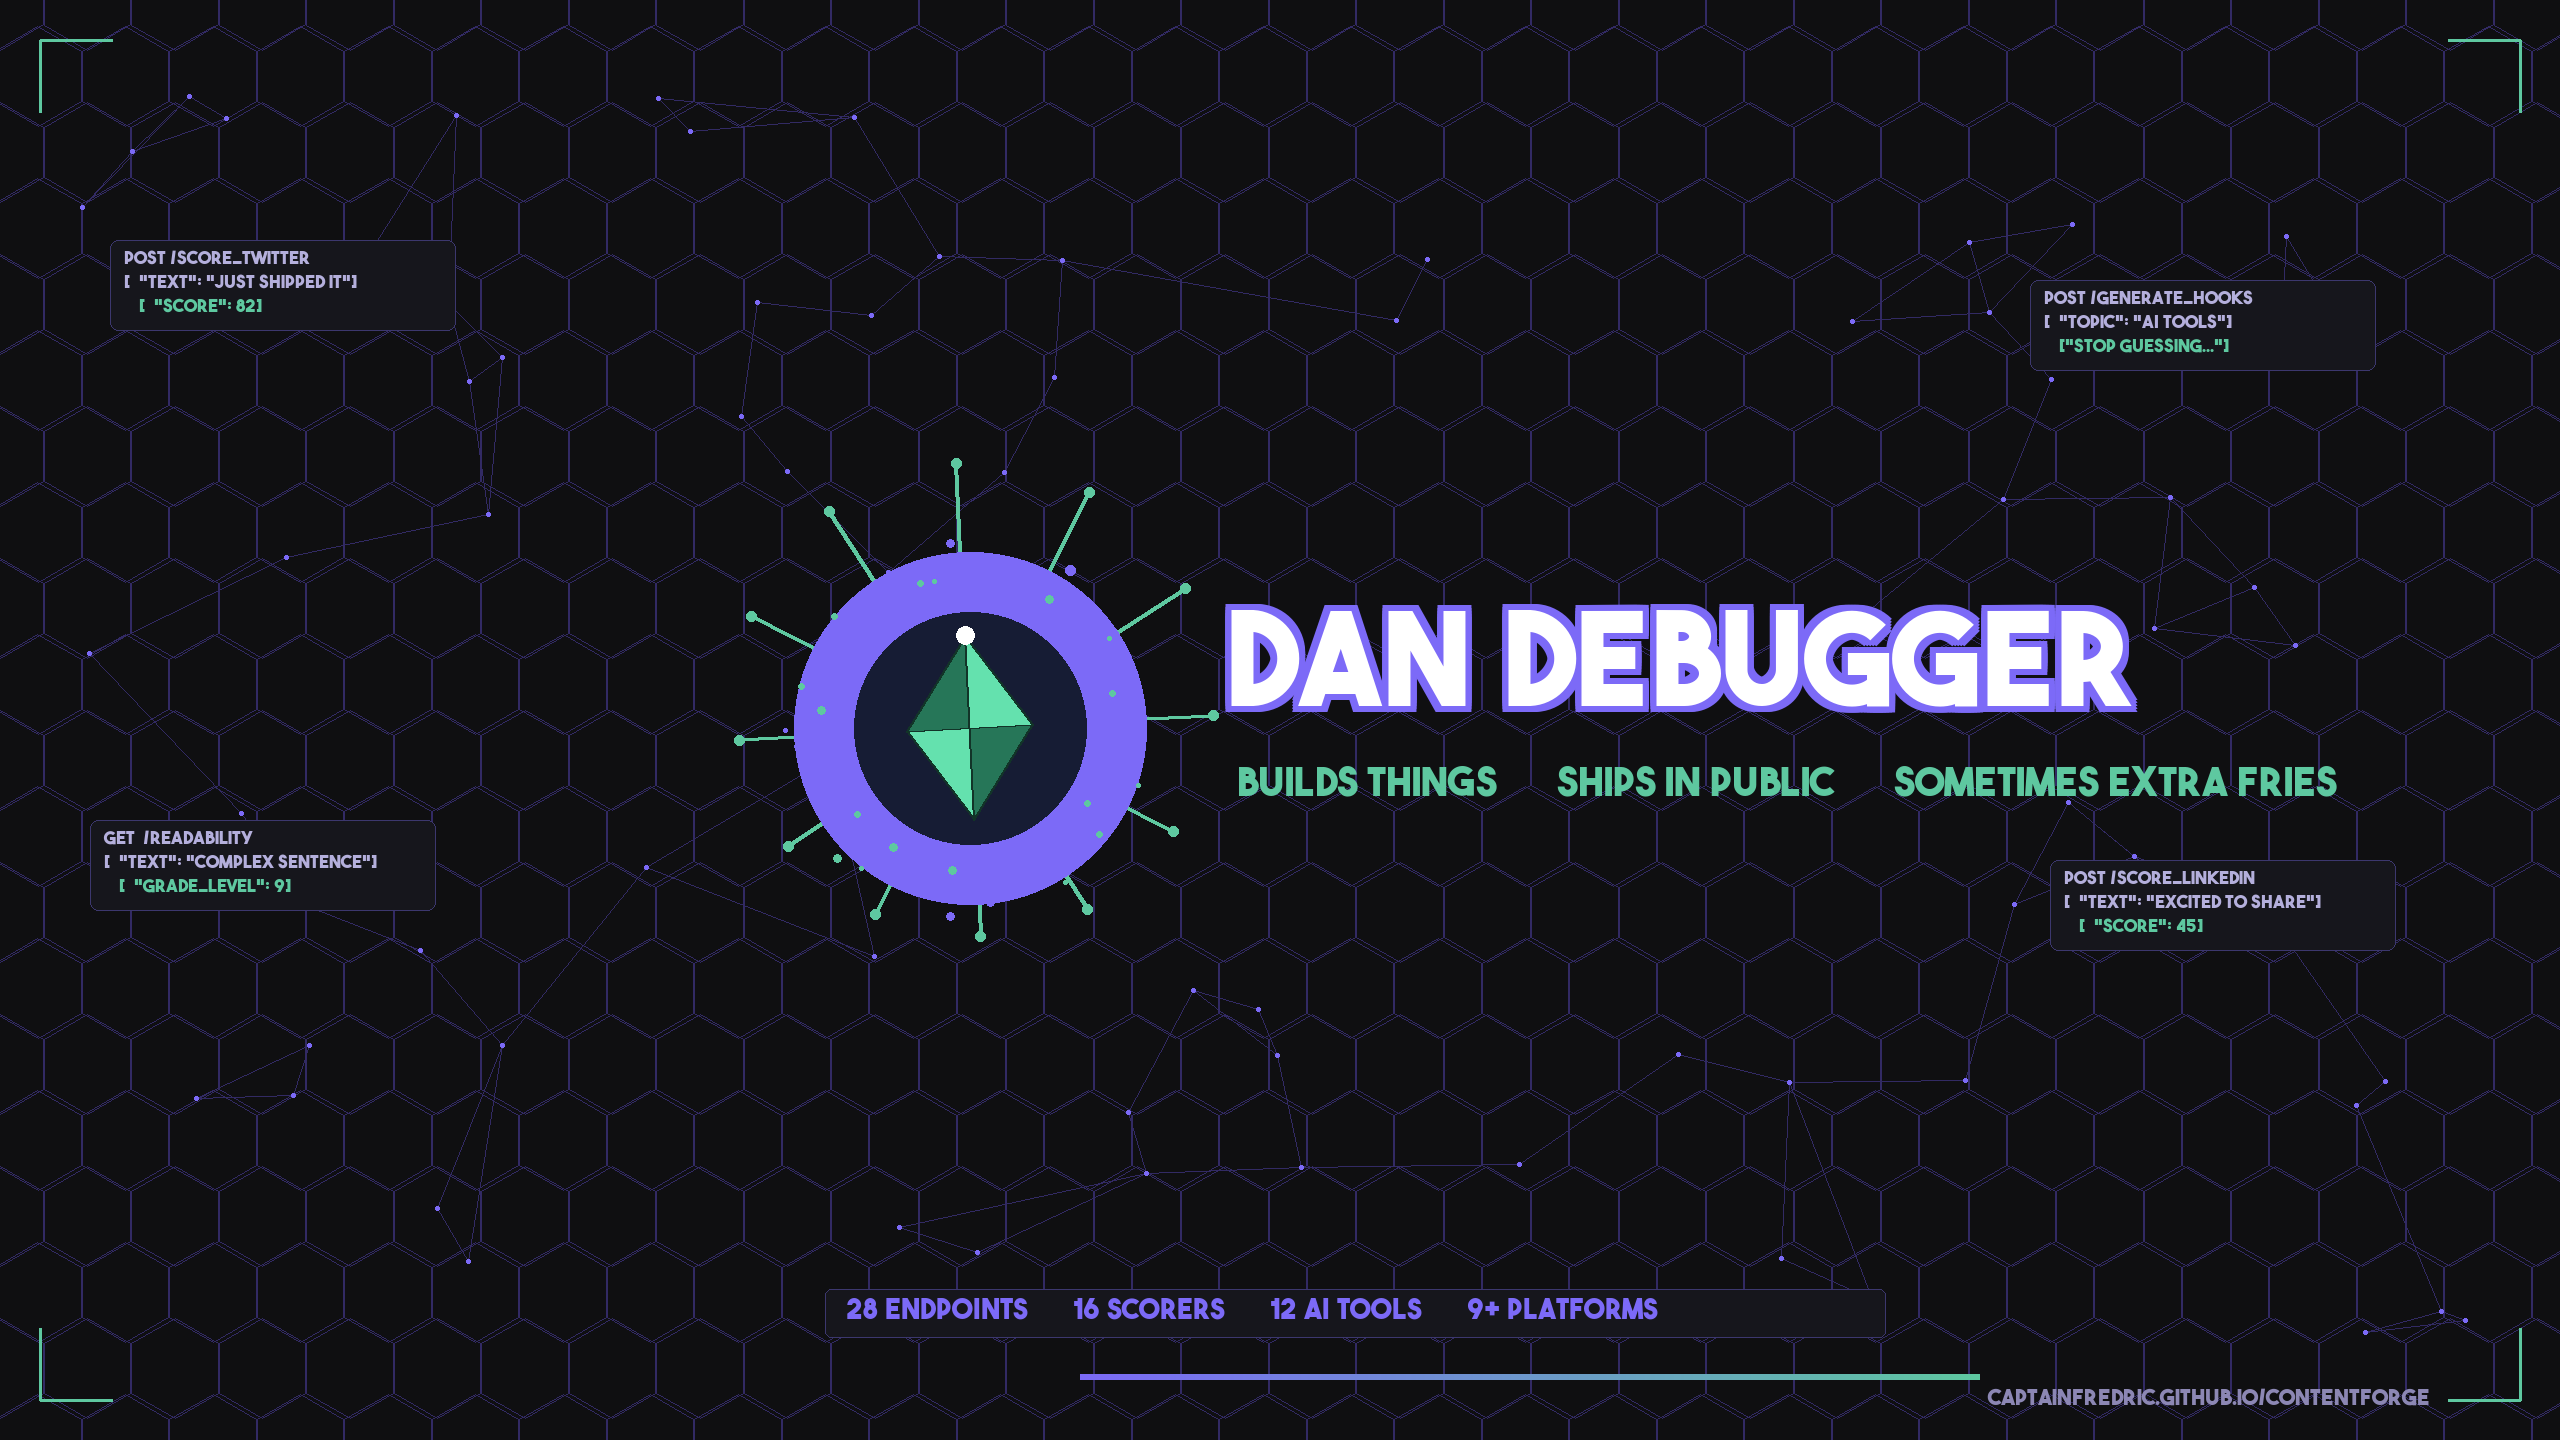
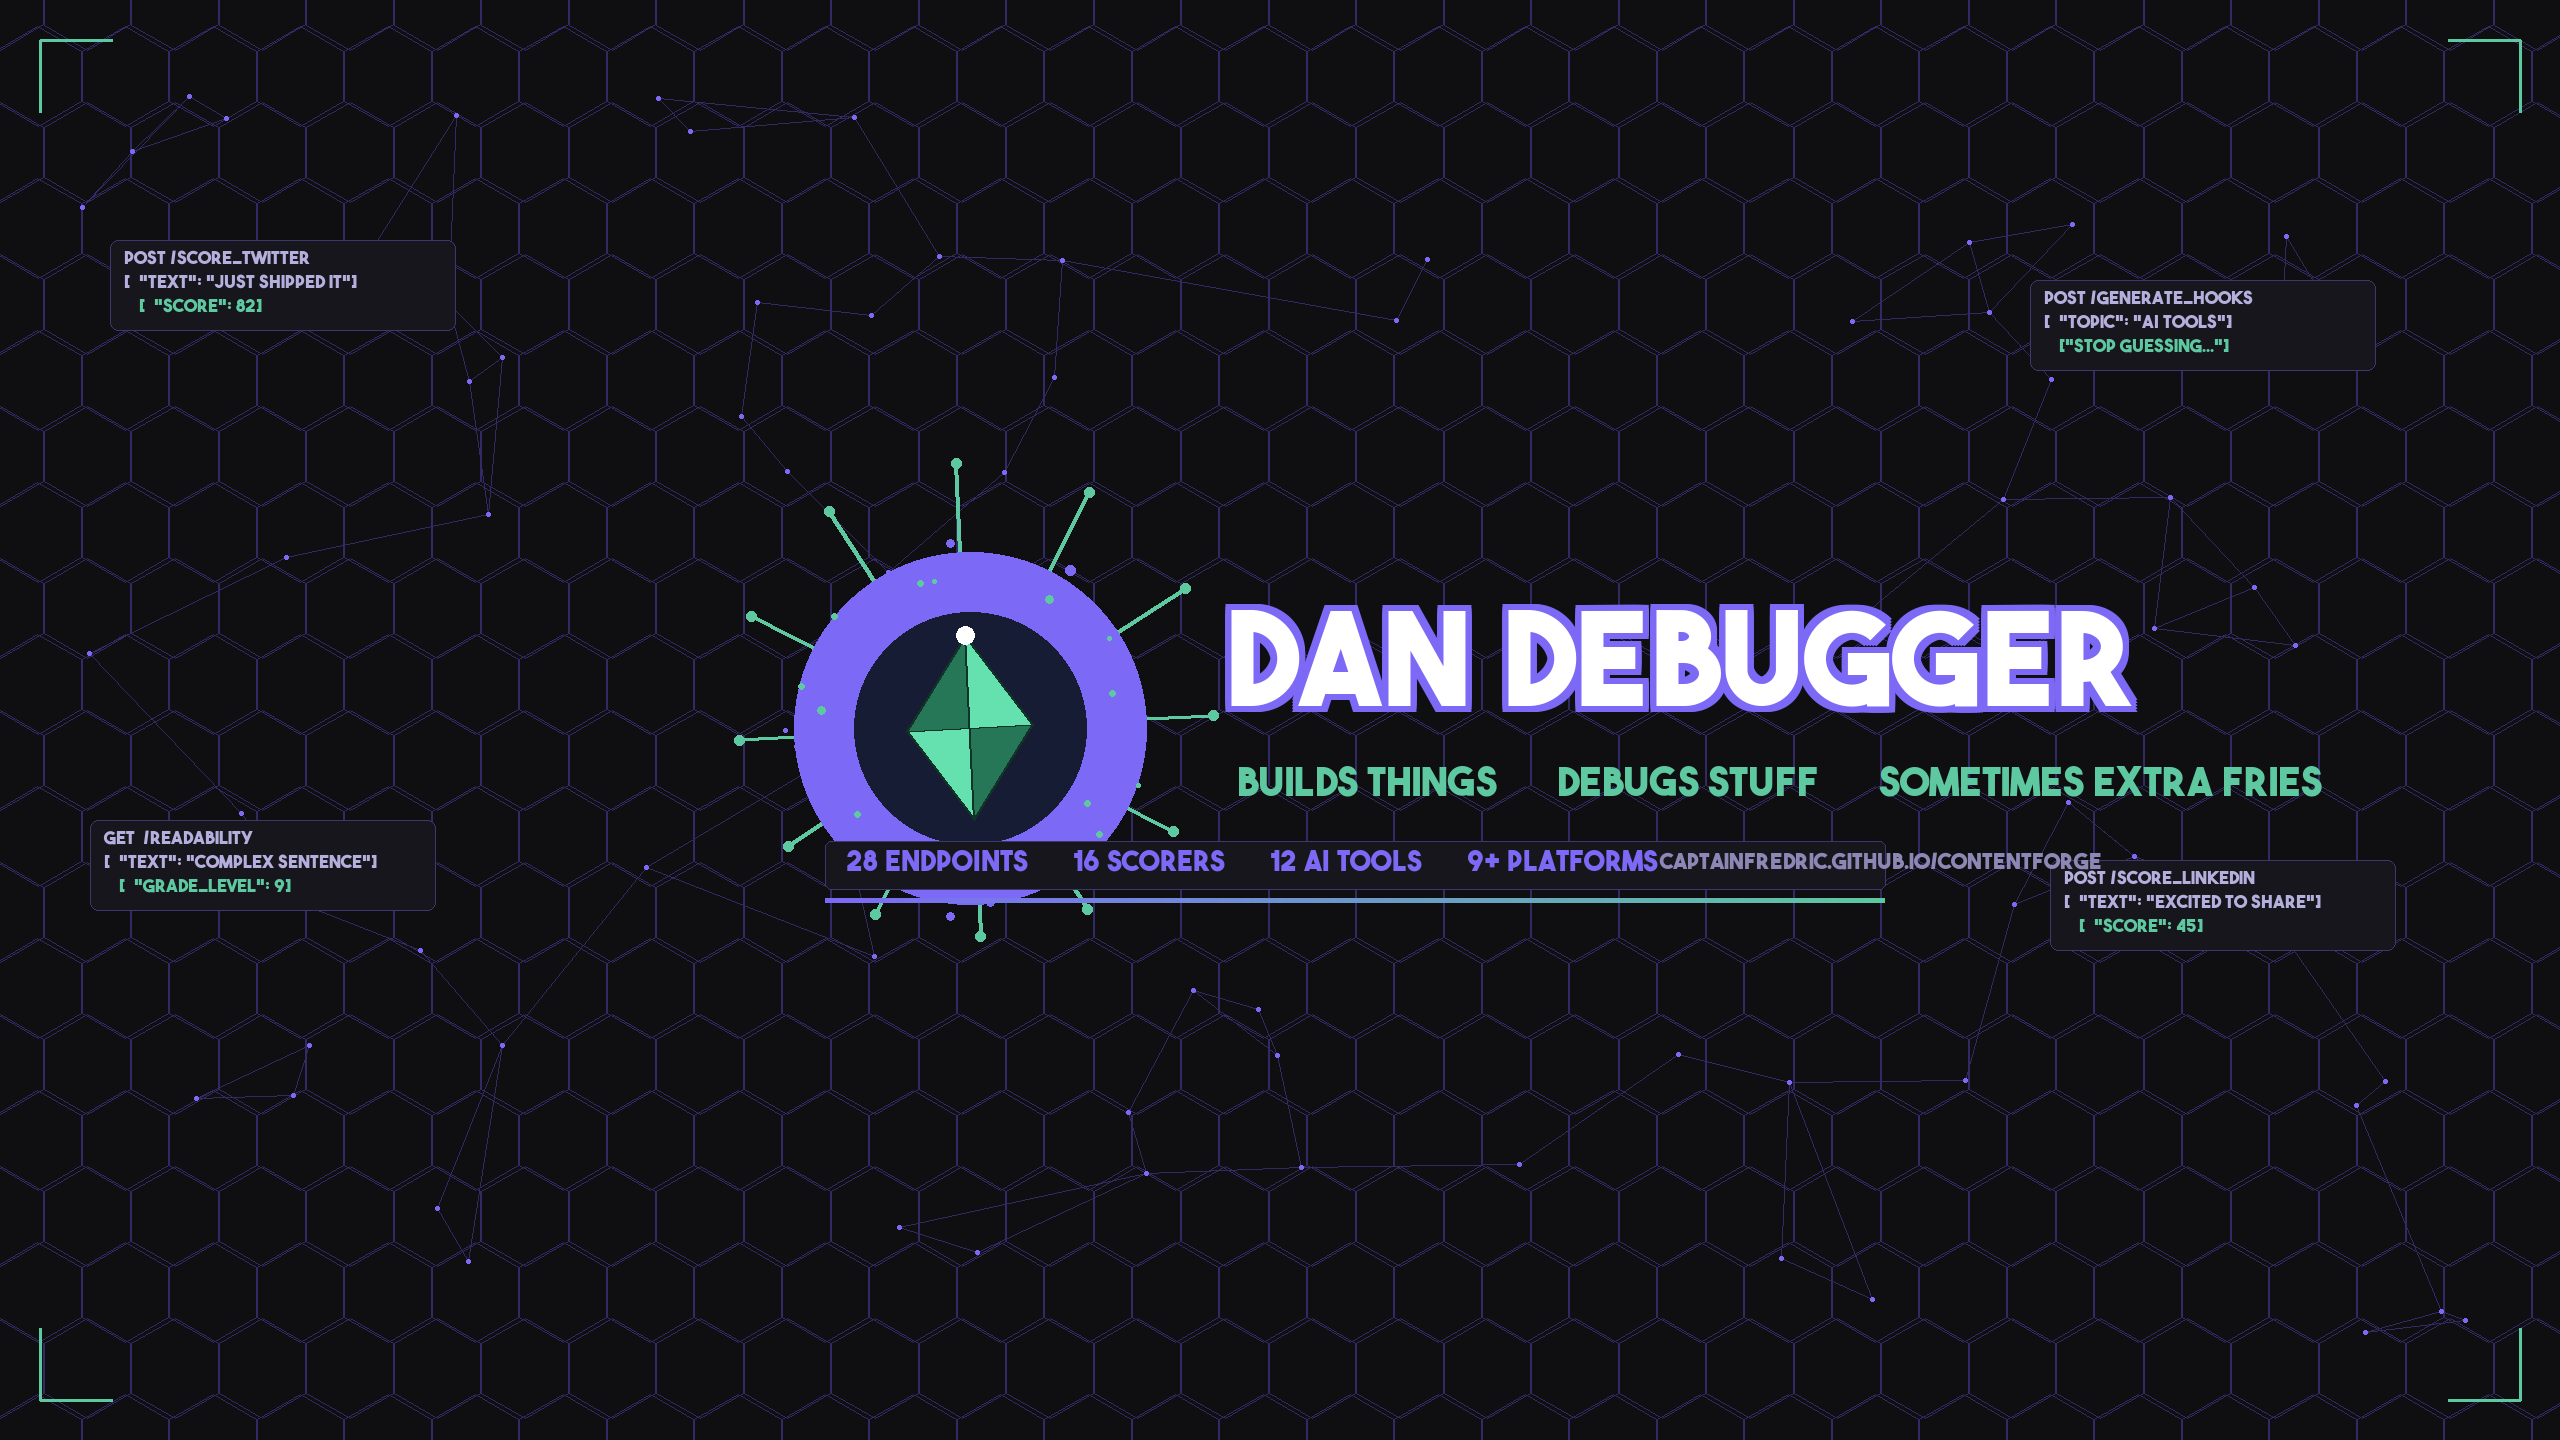
f

diff --git a/scripts/_gen_yt_banner.py b/scripts/_gen_yt_banner.py
@@ -207,7 +207,7 @@ def draw_halo_and_beams(d, f):
 #  FRAME GENERATOR
 # ─────────────────────────────────────────────────────
 TITLE   = "DAN DeBUGGER"
-TAGLINE = "builds things  ·  ships in public  ·  sometimes extra fries"
+TAGLINE = "builds things  ·  debugs stuff  ·  sometimes extra fries"
 STATS   = "28 ENDPOINTS  ·  16 SCORERS  ·  12 AI TOOLS  ·  9+ PLATFORMS"
 
 _title_f = None
@@ -278,8 +278,8 @@ def gen_frame(f):
     # ── 8. Static tagline ──
     d.text((tx + 12, ty + 158), TAGLINE, fill=TEAL, font=_tag_f)
 
-    # ── 9. Static stats bar ──
-    st_y = H - 142
+    # ── 9. Static stats bar — kept within all-devices safe zone (y ≤ 889) ──
+    st_y = H // 2 + 130   # = 850, box spans y=841–889
     d.rounded_rectangle(
         [W//2 - 455, st_y - 9, W//2 + 605, st_y + 39],
         radius=6, fill=ac(DARK_CARD, 122), outline=ac(CARD_EDGE, 52), width=1
@@ -296,8 +296,8 @@ def gen_frame(f):
             sa = int(26 * (1 - abs(dy) / 14))
             d.line([(0, yy), (W, yy)], fill=ac(PURPLE, sa))
 
-    # ── 11. Static gradient accent bar ──
-    bar_y, bar_h, bar_x, bar_w = H - 66, 5, W//2 - 200, 900
+    # ── 11. Static gradient accent bar — just below stats, within desktop safe zone ──
+    bar_y, bar_h, bar_x, bar_w = H // 2 + 178, 4, W//2 - 455, 1060
     for bx in range(bar_w):
         c = lerp(PURPLE, TEAL, bx / bar_w)
         d.line([(bar_x+bx, bar_y), (bar_x+bx, bar_y+bar_h)], fill=ac(c, 200))
@@ -309,9 +309,9 @@ def gen_frame(f):
         d.line([(bx, by), (bx + xs*cl, by)], fill=cc, width=lw)
         d.line([(bx, by), (bx, by + ys*cl)], fill=cc, width=lw)
 
-    # ── 13. Static URL watermark ──
-    d.text((W-572, H-52), "captainfredric.github.io/ContentForge",
-           fill=ac((140, 135, 180), 140), font=_wm_f)
+    # ── 13. Static URL watermark — right-aligned inside stats box row ──
+    d.text((W//2 + 380, H // 2 + 132), "captainfredric.github.io/ContentForge",
+           fill=ac((140, 135, 180), 130), font=_wm_f)
 
     return img.convert("RGB")
 

diff --git a/docs/YouTube_Channel_Upgrade.md b/docs/YouTube_Channel_Upgrade.md
@@ -1,0 +1,189 @@
+# YouTube Channel Upgrade — Dan DeBugger
+
+All copy below is ready to paste directly into YouTube Studio.
+
+---
+
+## 1. Channel Name
+
+**Change to:** `Dan DeBugger`
+
+Already your coding identity on GitHub. Memorable, personality-driven, coding-themed.
+No reason to keep "Aden Cisneros" — that handle does nothing for discoverability or brand.
+
+---
+
+## 2. Handle
+
+**Change to:** `@dandebugger`
+
+Check availability at youtube.com/handle.
+If taken: `@dan.debugger` or `@dandebugger_` are clean fallbacks.
+
+---
+
+## 3. Channel Description (About section)
+
+Paste this into **YouTube Studio → Customization → Basic info → Description**:
+
+```
+I build things that probably shouldn't work — and then ship them anyway.
+
+I'm Dan DeBugger. I write code, break things on purpose, and document the chaos.
+Projects range from AI-powered content tools to Bloomberg-style trading terminals
+to 3D geospatial intelligence dashboards. I ship in public and talk about
+everything: the builds, the debugging sessions, the lessons, and sometimes extra fries.
+
+Current builds:
+→ ContentForge — AI content scoring API (28 endpoints, live on RapidAPI)
+→ The Terminal — Bloomberg-inspired market workspace with Flask + SQLite backend
+→ Panopticon Earth — 3D globe intel tool (Cesium, live satellite + flight layers)
+
+I post build logs, dev breakdowns, and whatever I'm currently overthinking.
+
+Links below if you want to poke around the actual code.
+```
+
+**Why this works:**
+- Opens with personality, not a résumé
+- Names real projects with real descriptions (not vague "I make cool stuff")
+- Sets content expectations ("build logs, dev breakdowns")
+- Ends with CTA toward links
+
+---
+
+## 4. Links to Add
+
+Go to **YouTube Studio → Customization → Basic info → Links**
+
+| Label | URL |
+|---|---|
+| ContentForge API | `https://captainfredric.github.io/ContentForge` |
+| GitHub | `https://github.com/CaptainFredric` |
+| ContentForge on RapidAPI | `https://rapidapi.com/captainarmoreddude/api/contentforge1` |
+| LinkedIn | `https://linkedin.com/in/aden-cisneros` |
+| Instagram | `https://instagram.com/captainfredric` |
+
+YouTube shows the first link prominently on your banner — put **ContentForge API** first.
+
+---
+
+## 5. Contact Email
+
+Go to **YouTube Studio → Customization → Basic info → Email for business inquiries**
+
+```
+captainarmoreddude@gmail.com
+```
+
+---
+
+## 6. Banner Concept
+
+**Theme:** Dark terminal / globe-intel aesthetic — matches ContentForge and Panopticon Earth.
+
+**Dimensions:** 2560 × 1440px (YouTube safe zone for all devices: center 1546 × 423px)
+
+**Design direction:**
+
+```
+Background: #0f0f11 (near-black)
+
+Left side (desktop visible):
+  - Faint green terminal grid lines or a subtle wireframe globe
+  - A small "< >" or "{ }" bracket motif in teal (#5ec8a0)
+
+Center safe zone (all devices see this):
+  - "Dan DeBugger" in bold, slightly condensed sans-serif
+    Color: white (#ffffff) with purple glow (#7c6af7)
+  - Tagline below in smaller text, color #5ec8a0:
+    "builds things • ships in public • sometimes extra fries"
+
+Right side (desktop visible):
+  - Faint ContentForge logo or a terminal cursor blinking motif
+  - Subtle code lines (opacity ~15%) in purple
+```
+
+**Tools to make it:**
+- Canva (free, has YouTube banner template at 2560×1440)
+- Figma (free, more control)
+- Both have dark themes — start from a blank dark canvas, not their default templates
+
+**Colors to use:**
+- Background: `#0f0f11`
+- Accent purple: `#7c6af7`
+- Accent teal: `#5ec8a0`
+- Text: `#ffffff`
+
+---
+
+## 7. Profile Picture
+
+**Option A (recommended short-term):** Keep your current photo — it's personal and human.
+Crop it square and center your face. The Christmas lights background accidentally gives
+a "chill dev at home" vibe which fits your brand.
+
+**Option B (recommended long-term):** Commission or create a Dan DeBugger avatar —
+a stylized character or logo mark. Could be a pixel-art figure at a terminal, or just
+a clean "DD" monogram on dark background with purple/teal. Use this once you have
+video content that builds the persona.
+
+---
+
+## 8. Video Watermark
+
+Go to **YouTube Studio → Customization → Branding → Video watermark**
+
+Use the ContentForge logo (the crystal icon from your assets), or create a simple
+"DD" monogram in white on transparent background (PNG, 150×150px minimum).
+
+This shows bottom-right on all your videos as a subscribe prompt.
+
+---
+
+## 9. What to Do With the 4 Old Crossout Videos
+
+Three options:
+
+| Option | When to use |
+|---|---|
+| **Unlist them** | Best default — they still exist, links still work, but they don't appear on your channel page |
+| **Delete them** | Clean slate, but you lose the watch history and any backlinks |
+| **Keep public** | Only if you're going for "authentic origin story" angle |
+
+**Recommendation:** Unlist all 4. They're gaming clips from 4 years ago on a channel
+you're rebranding as a dev/coding channel. They create confusion, not nostalgia.
+
+To unlist: YouTube Studio → Content → click each video → Details → Visibility → Unlisted → Save
+
+---
+
+## 10. First Video to Post (Suggestion)
+
+You have 3 strong candidates for a first dev video:
+
+1. **"I built a Bloomberg terminal from scratch in a weekend"** — The Terminal project.
+   High search intent, relatable struggle content, good demo footage.
+
+2. **"I shipped a 28-endpoint API on RapidAPI with zero followers"** — ContentForge launch story.
+   Indie hacker angle, good for the dev/twitter audience.
+
+3. **"I made a live 3D satellite tracker in the browser"** — Panopticon Earth.
+   Visually impressive, good thumbnail, broad appeal.
+
+Option 3 gets the most clicks on thumbnail alone. Option 2 builds the right audience for ContentForge monetization.
+
+---
+
+## Summary Checklist
+
+- [ ] Change channel name → `Dan DeBugger`
+- [ ] Change handle → `@dandebugger`
+- [ ] Paste new description (section 3 above)
+- [ ] Add 5 links (section 4 above)
+- [ ] Add contact email → `captainarmoreddude@gmail.com`
+- [ ] Design and upload new banner (section 6 above)
+- [ ] Update or keep profile picture (section 7)
+- [ ] Add video watermark (section 8)
+- [ ] Unlist 4 old Crossout videos (section 9)
+- [ ] Plan first new video (section 10)
